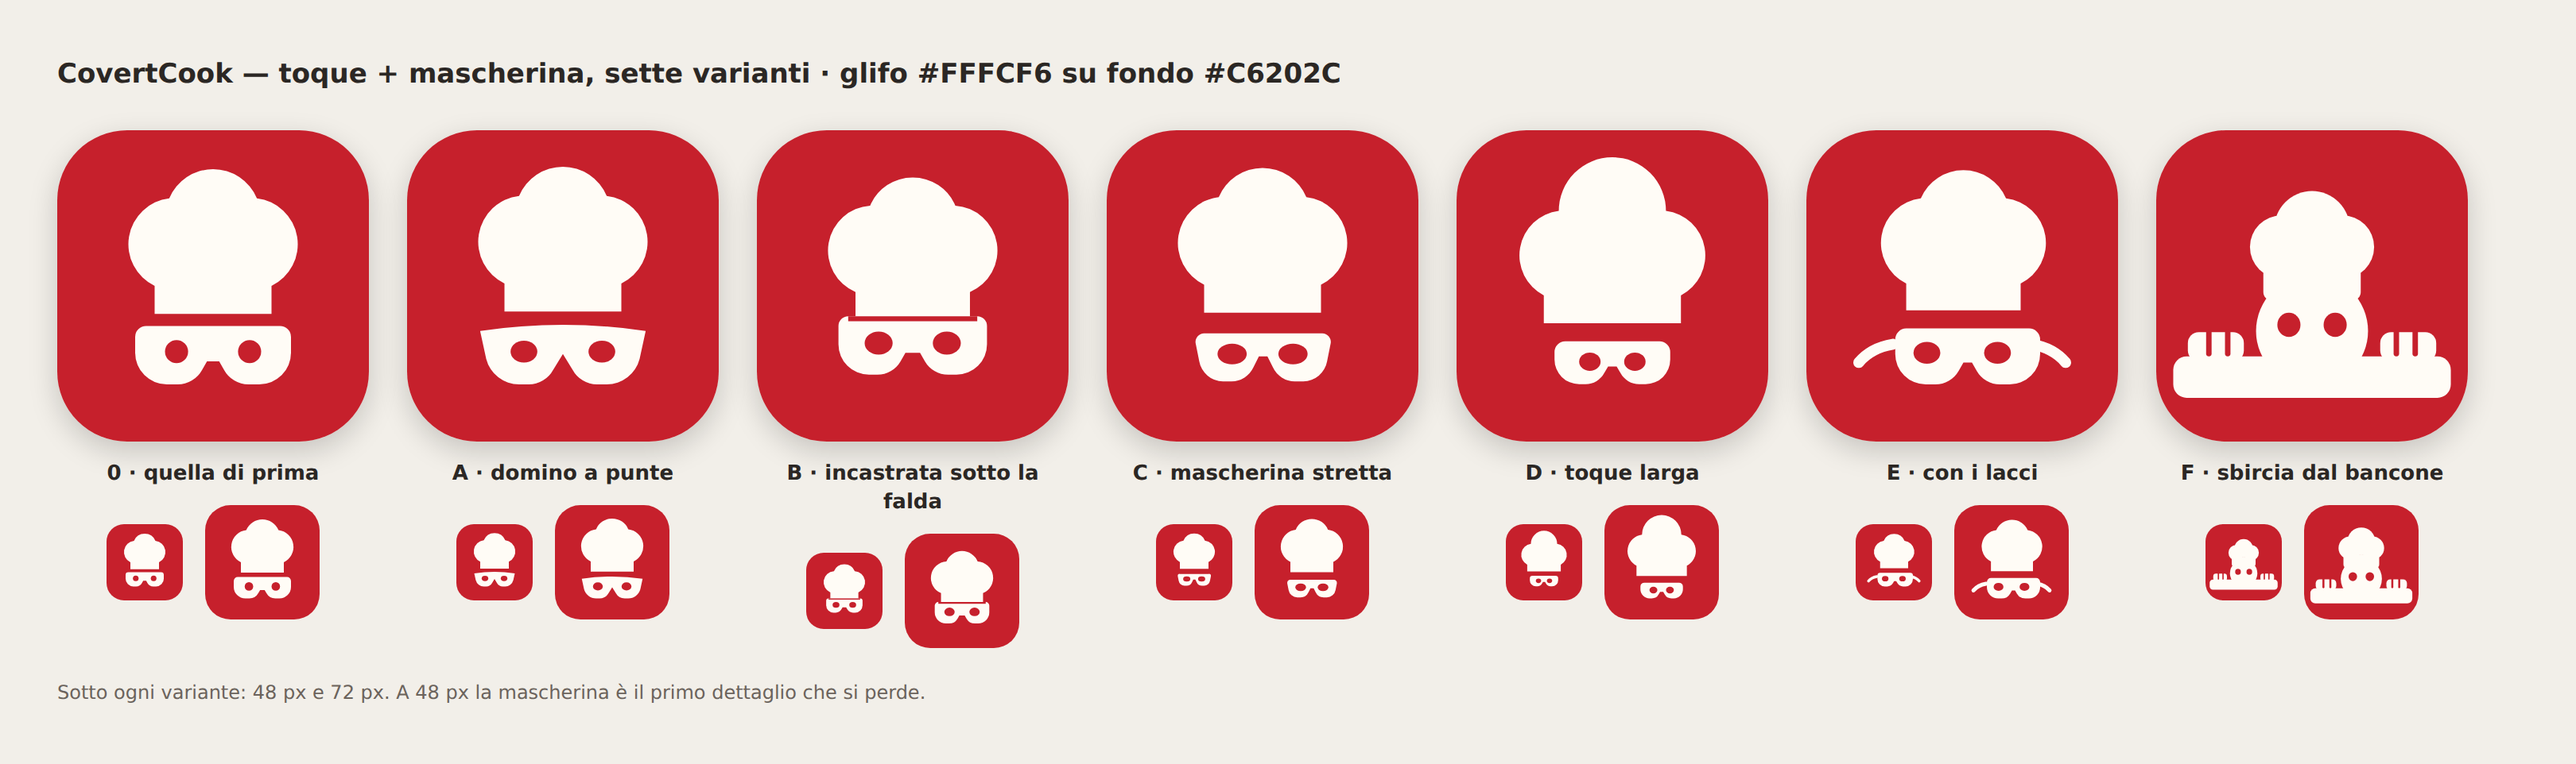
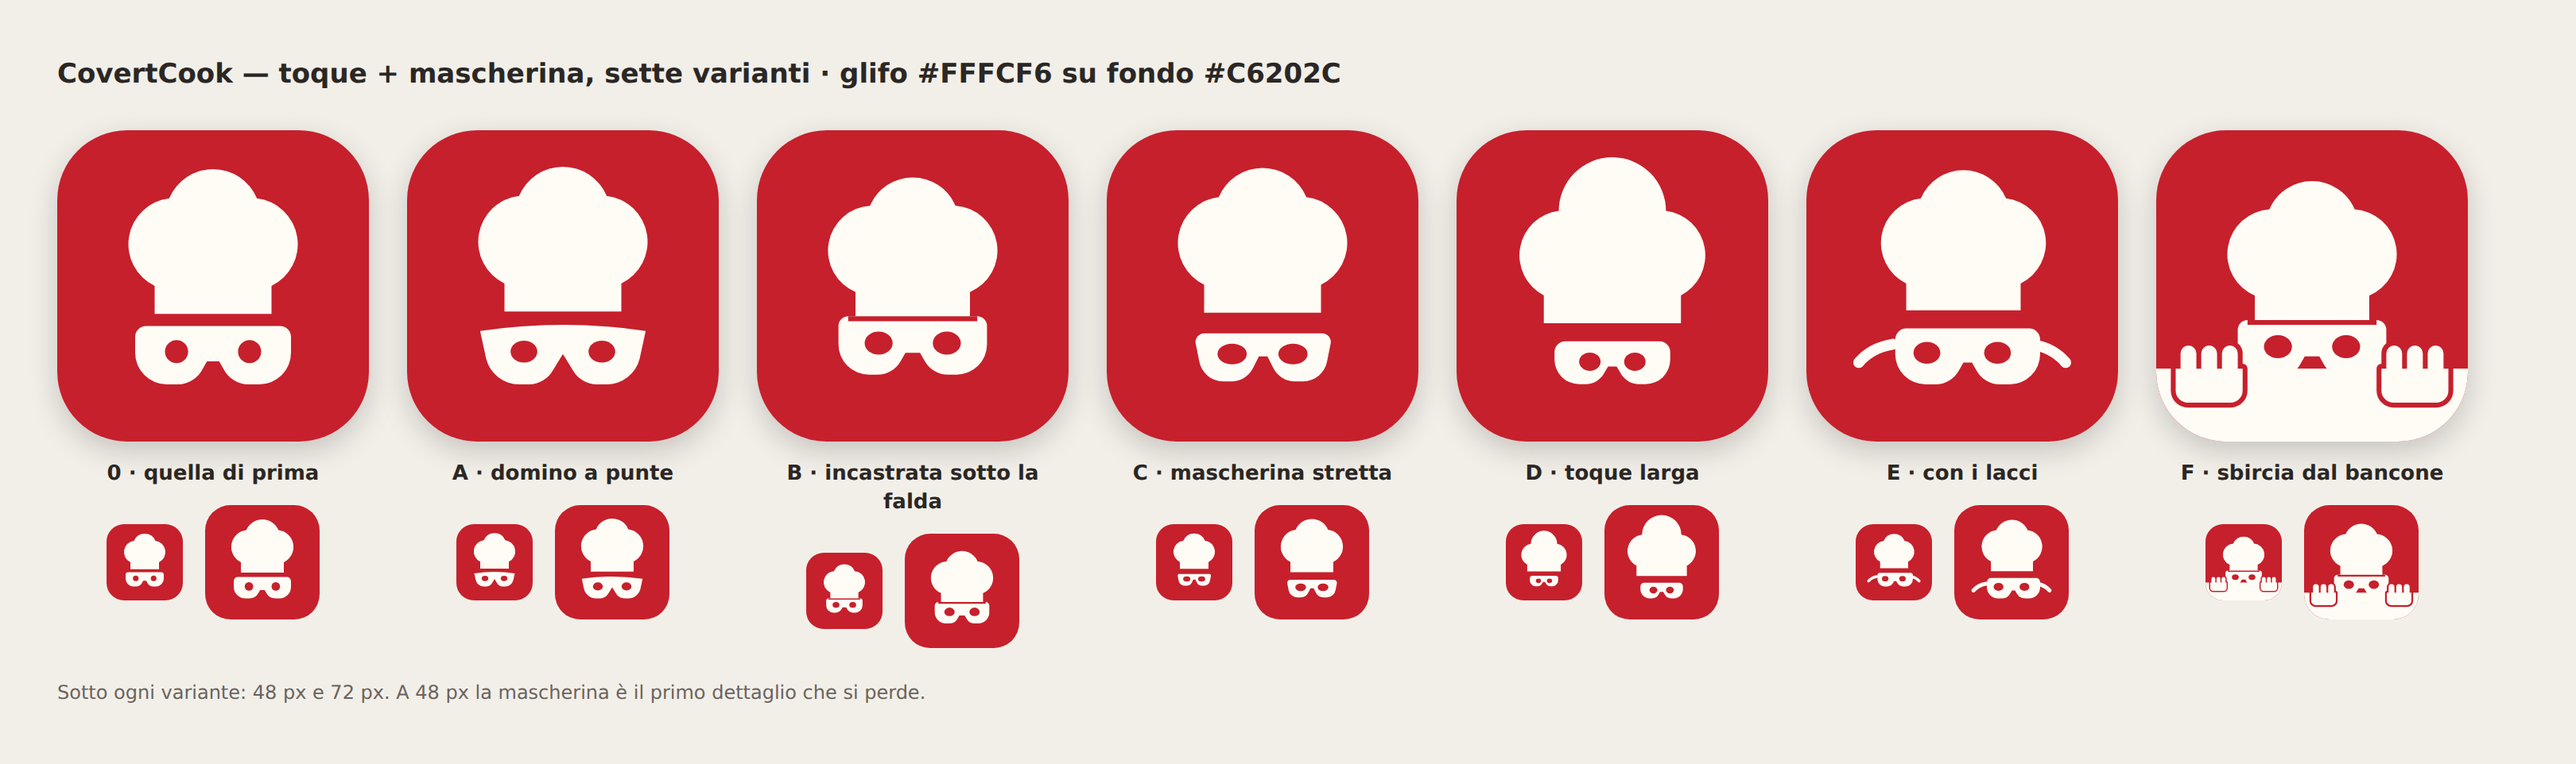
The peeking one gets B's face, a counter that reaches the edges, and hands that grip
Three changes, and the third is the one that needed thinking about.

The face is now B's — mascherina tucked under the brim — instead of the
bare dome with two dots. It brings B's chin notch with it, which lands just
above the counter line and reads as a nose, so the face gained a feature
without anything being drawn for it.

The counter runs to both sides and to the bottom of the tile. That removes
the floating-shelf problem the previous version had, where a bar with red
underneath it read as a plank rather than as a surface somebody is standing
behind.

The hands had to solve a contrast problem that only exists because of that.
Cream hands on a cream counter are invisible, and the fingers above the edge
sit on red where an outline would be invisible instead. So the hands are
drawn once and painted twice — `paint-order="stroke fill"` puts the red
stroke fully outside the fill, so the same shape reads against red above the
line and against cream below it. The fingers cross the edge; the palm sits
on the counter and is held by the outline alone.

One cost, written into the README next to the drawing: a white edge means no
edge at all on a white page, and a Play listing is a white page. On a phone
there is a wallpaper behind the icon and the question never comes up; in the
store the bottom of the tile will merge with the page. Stopping the counter
a few pixels short of the bottom fixes it, and is the kind of decision that
belongs to whoever picks this one.
[…]

Changed region(s): [[0.8105, 0.2183, 0.9664, 0.5925], [0.8417, 0.6861, 0.9352, 0.8108]]

diff --git a/assets-src/icon-proposals/README.md b/assets-src/icon-proposals/README.md
@@ -21,7 +21,15 @@ Palette identica a quella attuale: glifo `#FFFCF6` su fondo `#C6202C`
 | `3-toque-mask.svg` | Cappello da chef con la mascherina — *covert cook*, letterale |
 | `4-envelope-fork.svg` | Busta chiusa da un sigillo con le posate — il brief che arriva |
 | `5-pot-lid-ajar.svg` | Pentola col coperchio scostato — qualcosa sotto che non si vede |
-| `toque/` | Sette varianti del terzo concetto. `f-sbircia` è la più diversa: non un simbolo ma una scena — la testa spunta da dietro il bancone, gli occhi appena sopra il bordo, le mani appoggiate sopra. Costa in leggibilità a 48 px quello che guadagna in carattere a 512 |
+| `toque/` | Sette varianti del terzo concetto. `f-sbircia` è la più diversa: non un simbolo ma una scena — la faccia di `b`, il bancone bianco che arriva ai bordi e al fondo della tela, le mani aggrappate al bordo con le dita che lo scavalcano |
+
+**Una cosa da sapere su `f-sbircia`**: il bancone bianco a tutta pagina le dà
+caratterie e le toglie un bordo. Su una superficie chiara — e la scheda di
+un'app su Play è bianca — il fondo dell'icona si confonde con la pagina e
+resta in vista un cappello che galleggia. Sul launcher non succede, perché
+dietro c'è uno sfondo. Se la scelta cade su questa, la correzione è di due
+righe: fermare il bancone qualche pixel prima del bordo inferiore, e
+riprendersi quel margine di rosso.
 
 `PROPOSTE.png` e `toque/VARIANTI.png` sono i provini: ogni proposta a 196 px
 con la maschera arrotondata, e sotto a 48 e 72 px. **La riga piccola è la prova
